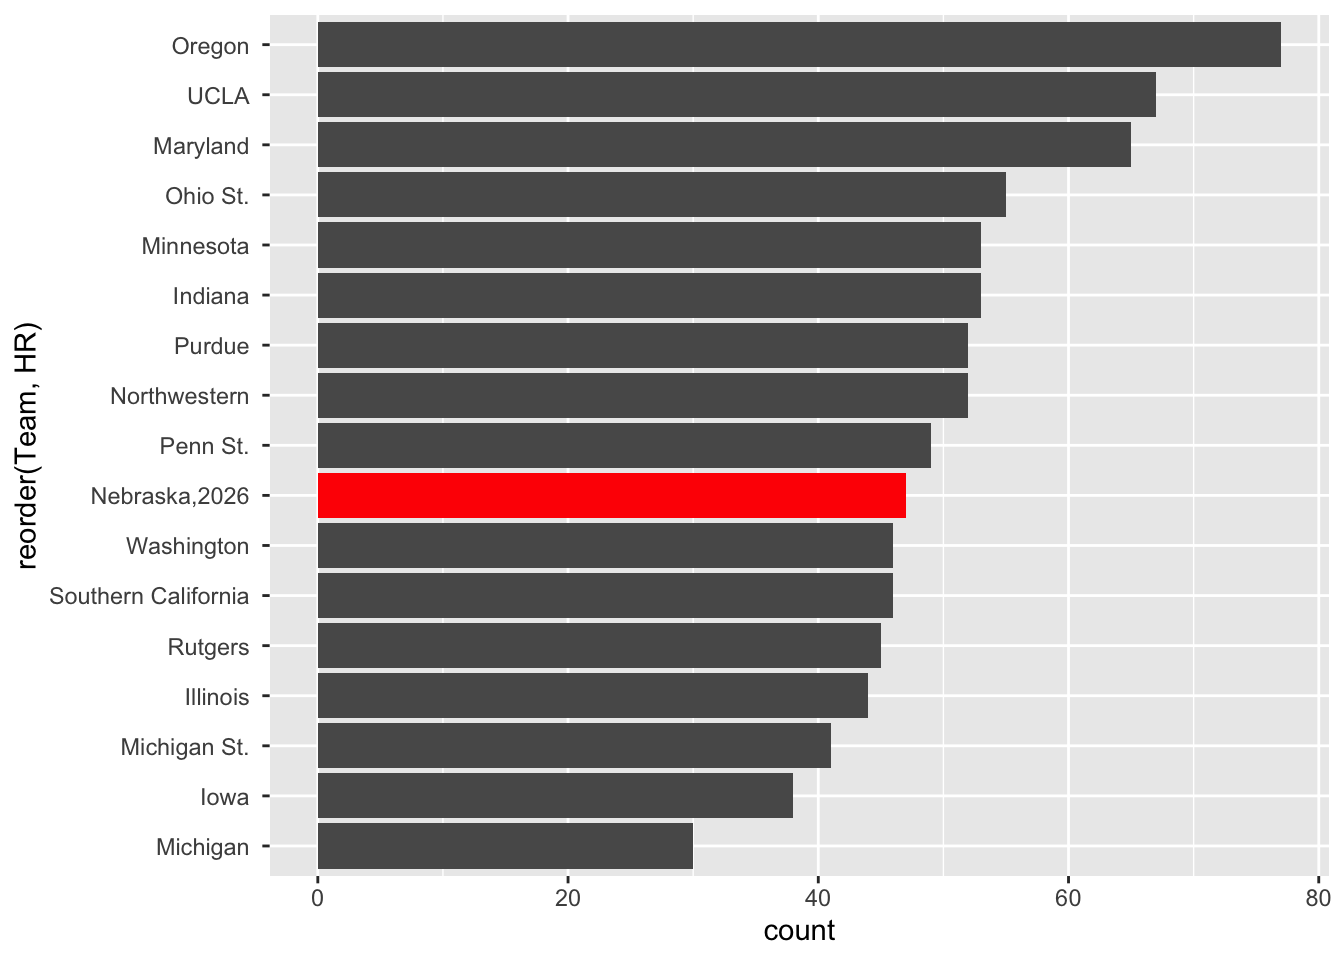
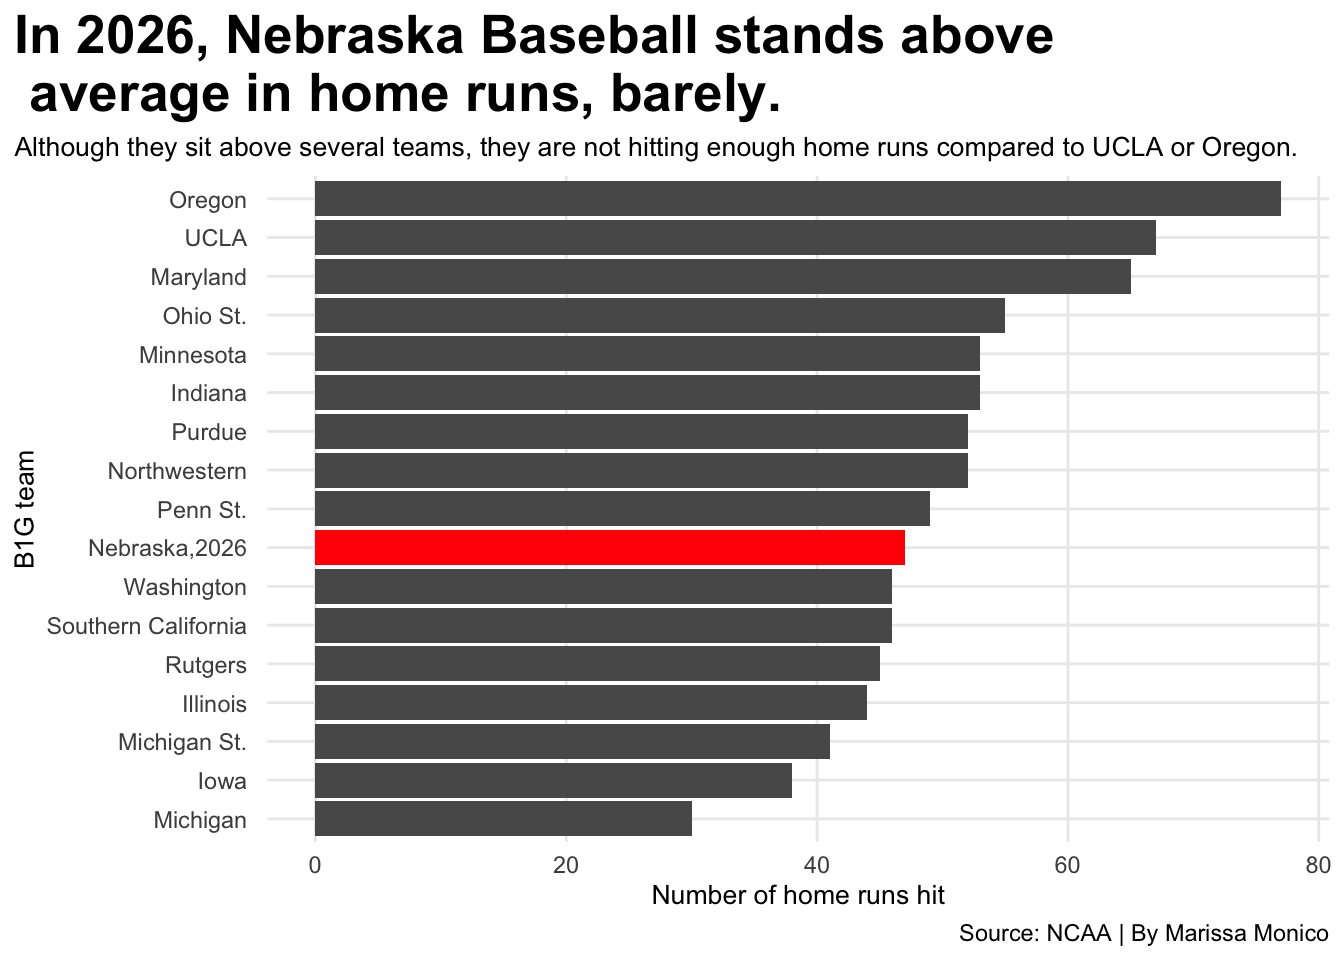
web 2 fix 2

diff --git a/posts/nebraska-baseball-2026-B1G/index.html b/posts/nebraska-baseball-2026-B1G/index.html
@@ -491,7 +491,23 @@ dbl (3): Rank, G, HR
 <span id="cb25-5"><a href="#cb25-5" aria-hidden="true" tabindex="-1"></a><span class="fu">ggplot</span>() <span class="sc">+</span> </span>
 <span id="cb25-6"><a href="#cb25-6" aria-hidden="true" tabindex="-1"></a>  <span class="fu">geom_bar</span>(<span class="at">data=</span>hr26, <span class="fu">aes</span>(<span class="at">x=</span><span class="fu">reorder</span>(Team, HR), <span class="at">weight=</span>HR)) <span class="sc">+</span> </span>
 <span id="cb25-7"><a href="#cb25-7" aria-hidden="true" tabindex="-1"></a>  <span class="fu">geom_bar</span>(<span class="at">data=</span>nu26, <span class="fu">aes</span>(<span class="at">x=</span><span class="fu">reorder</span>(Team, HR), <span class="at">weight=</span>HR), <span class="at">fill=</span><span class="st">"red"</span>)<span class="sc">+</span></span>
-<span id="cb25-8"><a href="#cb25-8" aria-hidden="true" tabindex="-1"></a>  <span class="fu">coord_flip</span>()  </span></code></pre></div><button title="Copy to Clipboard" class="code-copy-button"><i class="bi"></i></button></div>
+<span id="cb25-8"><a href="#cb25-8" aria-hidden="true" tabindex="-1"></a>  <span class="fu">coord_flip</span>() <span class="sc">+</span></span>
+<span id="cb25-9"><a href="#cb25-9" aria-hidden="true" tabindex="-1"></a>  <span class="fu">labs</span>(</span>
+<span id="cb25-10"><a href="#cb25-10" aria-hidden="true" tabindex="-1"></a>    <span class="at">x=</span><span class="st">"B1G team"</span>, </span>
+<span id="cb25-11"><a href="#cb25-11" aria-hidden="true" tabindex="-1"></a>    <span class="at">y=</span><span class="st">"Number of home runs hit"</span>, </span>
+<span id="cb25-12"><a href="#cb25-12" aria-hidden="true" tabindex="-1"></a>    <span class="at">title=</span><span class="st">"In 2026, Nebraska Baseball stands above </span><span class="sc">\n</span><span class="st"> average in home runs, barely."</span>, </span>
+<span id="cb25-13"><a href="#cb25-13" aria-hidden="true" tabindex="-1"></a>    <span class="at">subtitle=</span><span class="st">"Although they sit above several teams, they are not hitting enough home runs compared to UCLA or Oregon."</span>, </span>
+<span id="cb25-14"><a href="#cb25-14" aria-hidden="true" tabindex="-1"></a>    <span class="at">caption=</span><span class="st">"Source: NCAA | By Marissa Monico"</span></span>
+<span id="cb25-15"><a href="#cb25-15" aria-hidden="true" tabindex="-1"></a>    ) <span class="sc">+</span></span>
+<span id="cb25-16"><a href="#cb25-16" aria-hidden="true" tabindex="-1"></a>  <span class="fu">theme_minimal</span>() <span class="sc">+</span> </span>
+<span id="cb25-17"><a href="#cb25-17" aria-hidden="true" tabindex="-1"></a>  <span class="fu">theme</span>(</span>
+<span id="cb25-18"><a href="#cb25-18" aria-hidden="true" tabindex="-1"></a>    <span class="at">plot.title =</span> <span class="fu">element_text</span>(<span class="at">size =</span> <span class="dv">20</span>, <span class="at">face =</span> <span class="st">"bold"</span>),</span>
+<span id="cb25-19"><a href="#cb25-19" aria-hidden="true" tabindex="-1"></a>    <span class="at">axis.title =</span> <span class="fu">element_text</span>(<span class="at">size =</span> <span class="dv">10</span>), </span>
+<span id="cb25-20"><a href="#cb25-20" aria-hidden="true" tabindex="-1"></a>    <span class="at">plot.subtitle =</span> <span class="fu">element_text</span>(<span class="at">size=</span><span class="dv">10</span>), </span>
+<span id="cb25-21"><a href="#cb25-21" aria-hidden="true" tabindex="-1"></a>    <span class="at">panel.grid.minor =</span> <span class="fu">element_blank</span>(),</span>
+<span id="cb25-22"><a href="#cb25-22" aria-hidden="true" tabindex="-1"></a>    <span class="at">plot.title.position =</span> <span class="st">"plot"</span>, </span>
+<span id="cb25-23"><a href="#cb25-23" aria-hidden="true" tabindex="-1"></a>    <span class="at">legend.position =</span> <span class="st">"none"</span></span>
+<span id="cb25-24"><a href="#cb25-24" aria-hidden="true" tabindex="-1"></a>    ) </span></code></pre></div><button title="Copy to Clipboard" class="code-copy-button"><i class="bi"></i></button></div>
 </details>
 <div class="cell-output-display">
 <div>
@@ -505,7 +521,23 @@ dbl (3): Rank, G, HR
 <div class="code-copy-outer-scaffold"><div class="sourceCode cell-code" id="cb26"><pre class="sourceCode r code-with-copy"><code class="sourceCode r"><span id="cb26-1"><a href="#cb26-1" aria-hidden="true" tabindex="-1"></a><span class="fu">ggplot</span>() <span class="sc">+</span></span>
 <span id="cb26-2"><a href="#cb26-2" aria-hidden="true" tabindex="-1"></a>  <span class="fu">geom_bar</span>(<span class="at">data=</span>hr25, <span class="fu">aes</span>(<span class="at">x=</span><span class="fu">reorder</span>(Team, HR), <span class="at">weight=</span>HR)) <span class="sc">+</span> </span>
 <span id="cb26-3"><a href="#cb26-3" aria-hidden="true" tabindex="-1"></a>  <span class="fu">geom_bar</span>(<span class="at">data=</span>nu25, <span class="fu">aes</span>(<span class="at">x=</span><span class="fu">reorder</span>(Team, HR), <span class="at">weight=</span>HR), <span class="at">fill=</span><span class="st">"red"</span>)<span class="sc">+</span></span>
-<span id="cb26-4"><a href="#cb26-4" aria-hidden="true" tabindex="-1"></a>  <span class="fu">coord_flip</span>() </span></code></pre></div><button title="Copy to Clipboard" class="code-copy-button"><i class="bi"></i></button></div>
+<span id="cb26-4"><a href="#cb26-4" aria-hidden="true" tabindex="-1"></a>  <span class="fu">coord_flip</span>() <span class="sc">+</span></span>
+<span id="cb26-5"><a href="#cb26-5" aria-hidden="true" tabindex="-1"></a>  <span class="fu">labs</span>(</span>
+<span id="cb26-6"><a href="#cb26-6" aria-hidden="true" tabindex="-1"></a>    <span class="at">x=</span><span class="st">"B1G team"</span>, </span>
+<span id="cb26-7"><a href="#cb26-7" aria-hidden="true" tabindex="-1"></a>    <span class="at">y=</span><span class="st">"Number of home runs hit"</span>, </span>
+<span id="cb26-8"><a href="#cb26-8" aria-hidden="true" tabindex="-1"></a>    <span class="at">title=</span><span class="st">"Based off home runs, Nebraska should not </span><span class="sc">\n</span><span class="st"> have won the B1G Tournament in 2025."</span>, </span>
+<span id="cb26-9"><a href="#cb26-9" aria-hidden="true" tabindex="-1"></a>    <span class="at">subtitle=</span><span class="st">"The team was hitting below average, especially compared to their championship opponent, UCLA"</span>, </span>
+<span id="cb26-10"><a href="#cb26-10" aria-hidden="true" tabindex="-1"></a>    <span class="at">caption=</span><span class="st">"Source: NCAA | By Marissa Monico"</span></span>
+<span id="cb26-11"><a href="#cb26-11" aria-hidden="true" tabindex="-1"></a>    ) <span class="sc">+</span></span>
+<span id="cb26-12"><a href="#cb26-12" aria-hidden="true" tabindex="-1"></a>  <span class="fu">theme_minimal</span>() <span class="sc">+</span> </span>
+<span id="cb26-13"><a href="#cb26-13" aria-hidden="true" tabindex="-1"></a>  <span class="fu">theme</span>(</span>
+<span id="cb26-14"><a href="#cb26-14" aria-hidden="true" tabindex="-1"></a>    <span class="at">plot.title =</span> <span class="fu">element_text</span>(<span class="at">size =</span> <span class="dv">20</span>, <span class="at">face =</span> <span class="st">"bold"</span>),</span>
+<span id="cb26-15"><a href="#cb26-15" aria-hidden="true" tabindex="-1"></a>    <span class="at">axis.title =</span> <span class="fu">element_text</span>(<span class="at">size =</span> <span class="dv">10</span>), </span>
+<span id="cb26-16"><a href="#cb26-16" aria-hidden="true" tabindex="-1"></a>    <span class="at">plot.subtitle =</span> <span class="fu">element_text</span>(<span class="at">size=</span><span class="dv">10</span>), </span>
+<span id="cb26-17"><a href="#cb26-17" aria-hidden="true" tabindex="-1"></a>    <span class="at">panel.grid.minor =</span> <span class="fu">element_blank</span>(),</span>
+<span id="cb26-18"><a href="#cb26-18" aria-hidden="true" tabindex="-1"></a>    <span class="at">plot.title.position =</span> <span class="st">"plot"</span>, </span>
+<span id="cb26-19"><a href="#cb26-19" aria-hidden="true" tabindex="-1"></a>    <span class="at">legend.position =</span> <span class="st">"none"</span></span>
+<span id="cb26-20"><a href="#cb26-20" aria-hidden="true" tabindex="-1"></a>    ) </span></code></pre></div><button title="Copy to Clipboard" class="code-copy-button"><i class="bi"></i></button></div>
 </details>
 <div class="cell-output-display">
 <div>
@@ -519,7 +551,23 @@ dbl (3): Rank, G, HR
 <div class="code-copy-outer-scaffold"><div class="sourceCode cell-code" id="cb27"><pre class="sourceCode r code-with-copy"><code class="sourceCode r"><span id="cb27-1"><a href="#cb27-1" aria-hidden="true" tabindex="-1"></a><span class="fu">ggplot</span>()<span class="sc">+</span></span>
 <span id="cb27-2"><a href="#cb27-2" aria-hidden="true" tabindex="-1"></a>  <span class="fu">geom_bar</span>(<span class="at">data=</span>hr24, <span class="fu">aes</span>(<span class="at">x=</span><span class="fu">reorder</span>(Team, HR), <span class="at">weight=</span>HR)) <span class="sc">+</span> </span>
 <span id="cb27-3"><a href="#cb27-3" aria-hidden="true" tabindex="-1"></a>  <span class="fu">geom_bar</span>(<span class="at">data=</span>nu24, <span class="fu">aes</span>(<span class="at">x=</span><span class="fu">reorder</span>(Team, HR), <span class="at">weight=</span>HR), <span class="at">fill=</span><span class="st">"red"</span>)<span class="sc">+</span></span>
-<span id="cb27-4"><a href="#cb27-4" aria-hidden="true" tabindex="-1"></a>  <span class="fu">coord_flip</span>()</span></code></pre></div><button title="Copy to Clipboard" class="code-copy-button"><i class="bi"></i></button></div>
+<span id="cb27-4"><a href="#cb27-4" aria-hidden="true" tabindex="-1"></a>  <span class="fu">coord_flip</span>() <span class="sc">+</span></span>
+<span id="cb27-5"><a href="#cb27-5" aria-hidden="true" tabindex="-1"></a>  <span class="fu">labs</span>(</span>
+<span id="cb27-6"><a href="#cb27-6" aria-hidden="true" tabindex="-1"></a>    <span class="at">x=</span><span class="st">"B1G team"</span>, </span>
+<span id="cb27-7"><a href="#cb27-7" aria-hidden="true" tabindex="-1"></a>    <span class="at">y=</span><span class="st">"Number of home runs hit"</span>, </span>
+<span id="cb27-8"><a href="#cb27-8" aria-hidden="true" tabindex="-1"></a>    <span class="at">title=</span><span class="st">"Nebraska Baseball was hitting barrells in 2024."</span>, </span>
+<span id="cb27-9"><a href="#cb27-9" aria-hidden="true" tabindex="-1"></a>    <span class="at">subtitle=</span><span class="st">"Out of all three seasons, Nebraska hit the most home runs, with just under 75."</span>, </span>
+<span id="cb27-10"><a href="#cb27-10" aria-hidden="true" tabindex="-1"></a>    <span class="at">caption=</span><span class="st">"Source: NCAA | By Marissa Monico"</span></span>
+<span id="cb27-11"><a href="#cb27-11" aria-hidden="true" tabindex="-1"></a>    ) <span class="sc">+</span></span>
+<span id="cb27-12"><a href="#cb27-12" aria-hidden="true" tabindex="-1"></a>  <span class="fu">theme_minimal</span>() <span class="sc">+</span> </span>
+<span id="cb27-13"><a href="#cb27-13" aria-hidden="true" tabindex="-1"></a>  <span class="fu">theme</span>(</span>
+<span id="cb27-14"><a href="#cb27-14" aria-hidden="true" tabindex="-1"></a>    <span class="at">plot.title =</span> <span class="fu">element_text</span>(<span class="at">size =</span> <span class="dv">20</span>, <span class="at">face =</span> <span class="st">"bold"</span>),</span>
+<span id="cb27-15"><a href="#cb27-15" aria-hidden="true" tabindex="-1"></a>    <span class="at">axis.title =</span> <span class="fu">element_text</span>(<span class="at">size =</span> <span class="dv">10</span>), </span>
+<span id="cb27-16"><a href="#cb27-16" aria-hidden="true" tabindex="-1"></a>    <span class="at">plot.subtitle =</span> <span class="fu">element_text</span>(<span class="at">size=</span><span class="dv">10</span>), </span>
+<span id="cb27-17"><a href="#cb27-17" aria-hidden="true" tabindex="-1"></a>    <span class="at">panel.grid.minor =</span> <span class="fu">element_blank</span>(),</span>
+<span id="cb27-18"><a href="#cb27-18" aria-hidden="true" tabindex="-1"></a>    <span class="at">plot.title.position =</span> <span class="st">"plot"</span>, </span>
+<span id="cb27-19"><a href="#cb27-19" aria-hidden="true" tabindex="-1"></a>    <span class="at">legend.position =</span> <span class="st">"none"</span></span>
+<span id="cb27-20"><a href="#cb27-20" aria-hidden="true" tabindex="-1"></a>    ) </span></code></pre></div><button title="Copy to Clipboard" class="code-copy-button"><i class="bi"></i></button></div>
 </details>
 <div class="cell-output-display">
 <div>

diff --git a/index.html b/index.html
@@ -209,7 +209,7 @@ window.Quarto = {
 
 <div class="quarto-listing quarto-listing-container-default" id="listing-listing">
 <div class="list quarto-listing-default">
[2 lines of base64/hex data omitted]
 <div class="thumbnail"><a href="./posts/nebraska-baseball-2026-B1G/index.html" class="no-external">
 
 <img loading="lazy" src="./posts/nebraska-baseball-2026-B1G/image.png" class="thumbnail-image">
